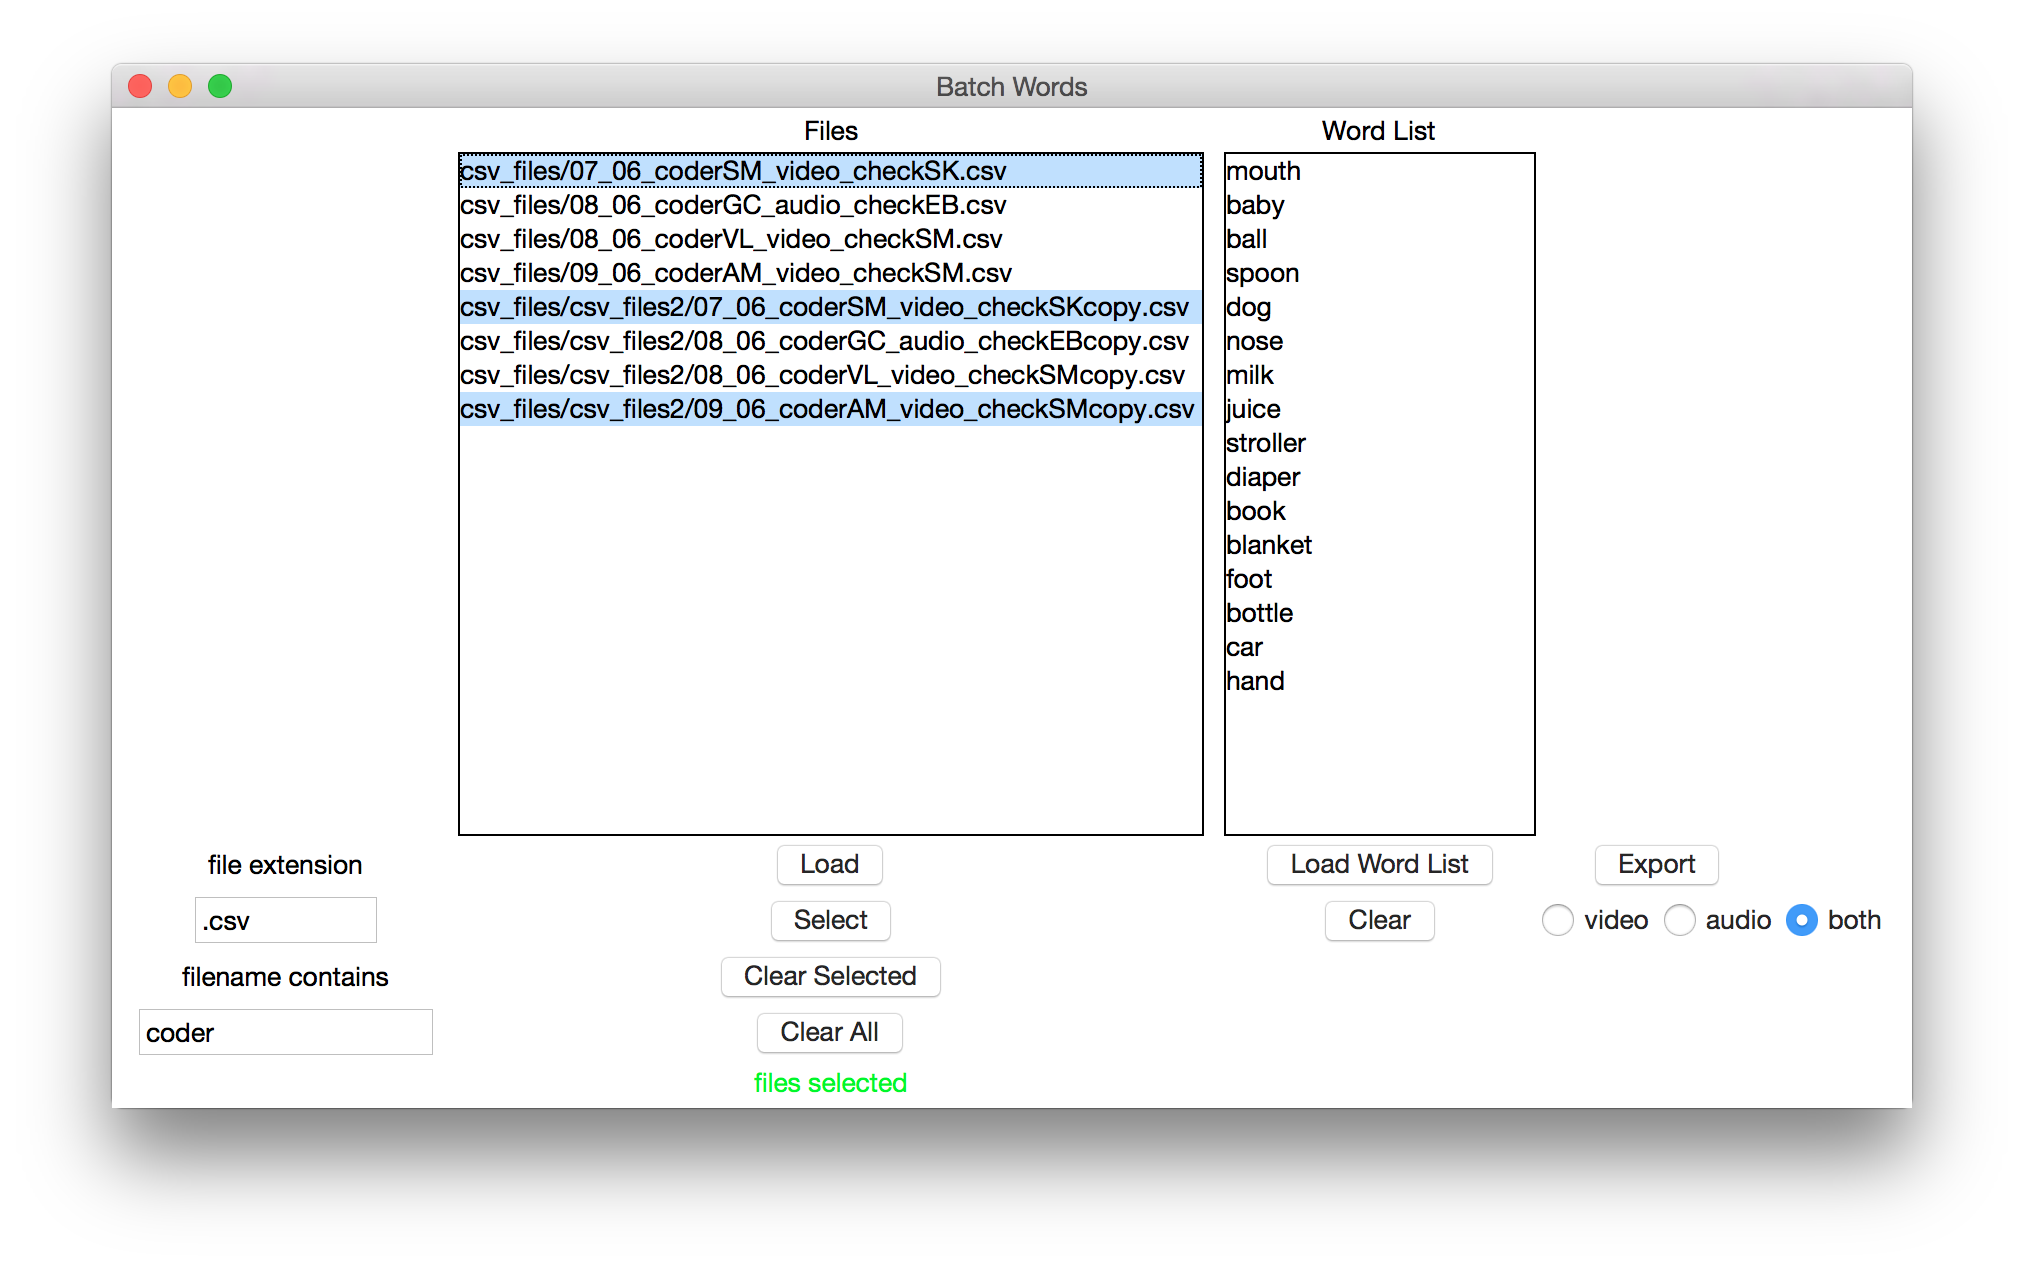
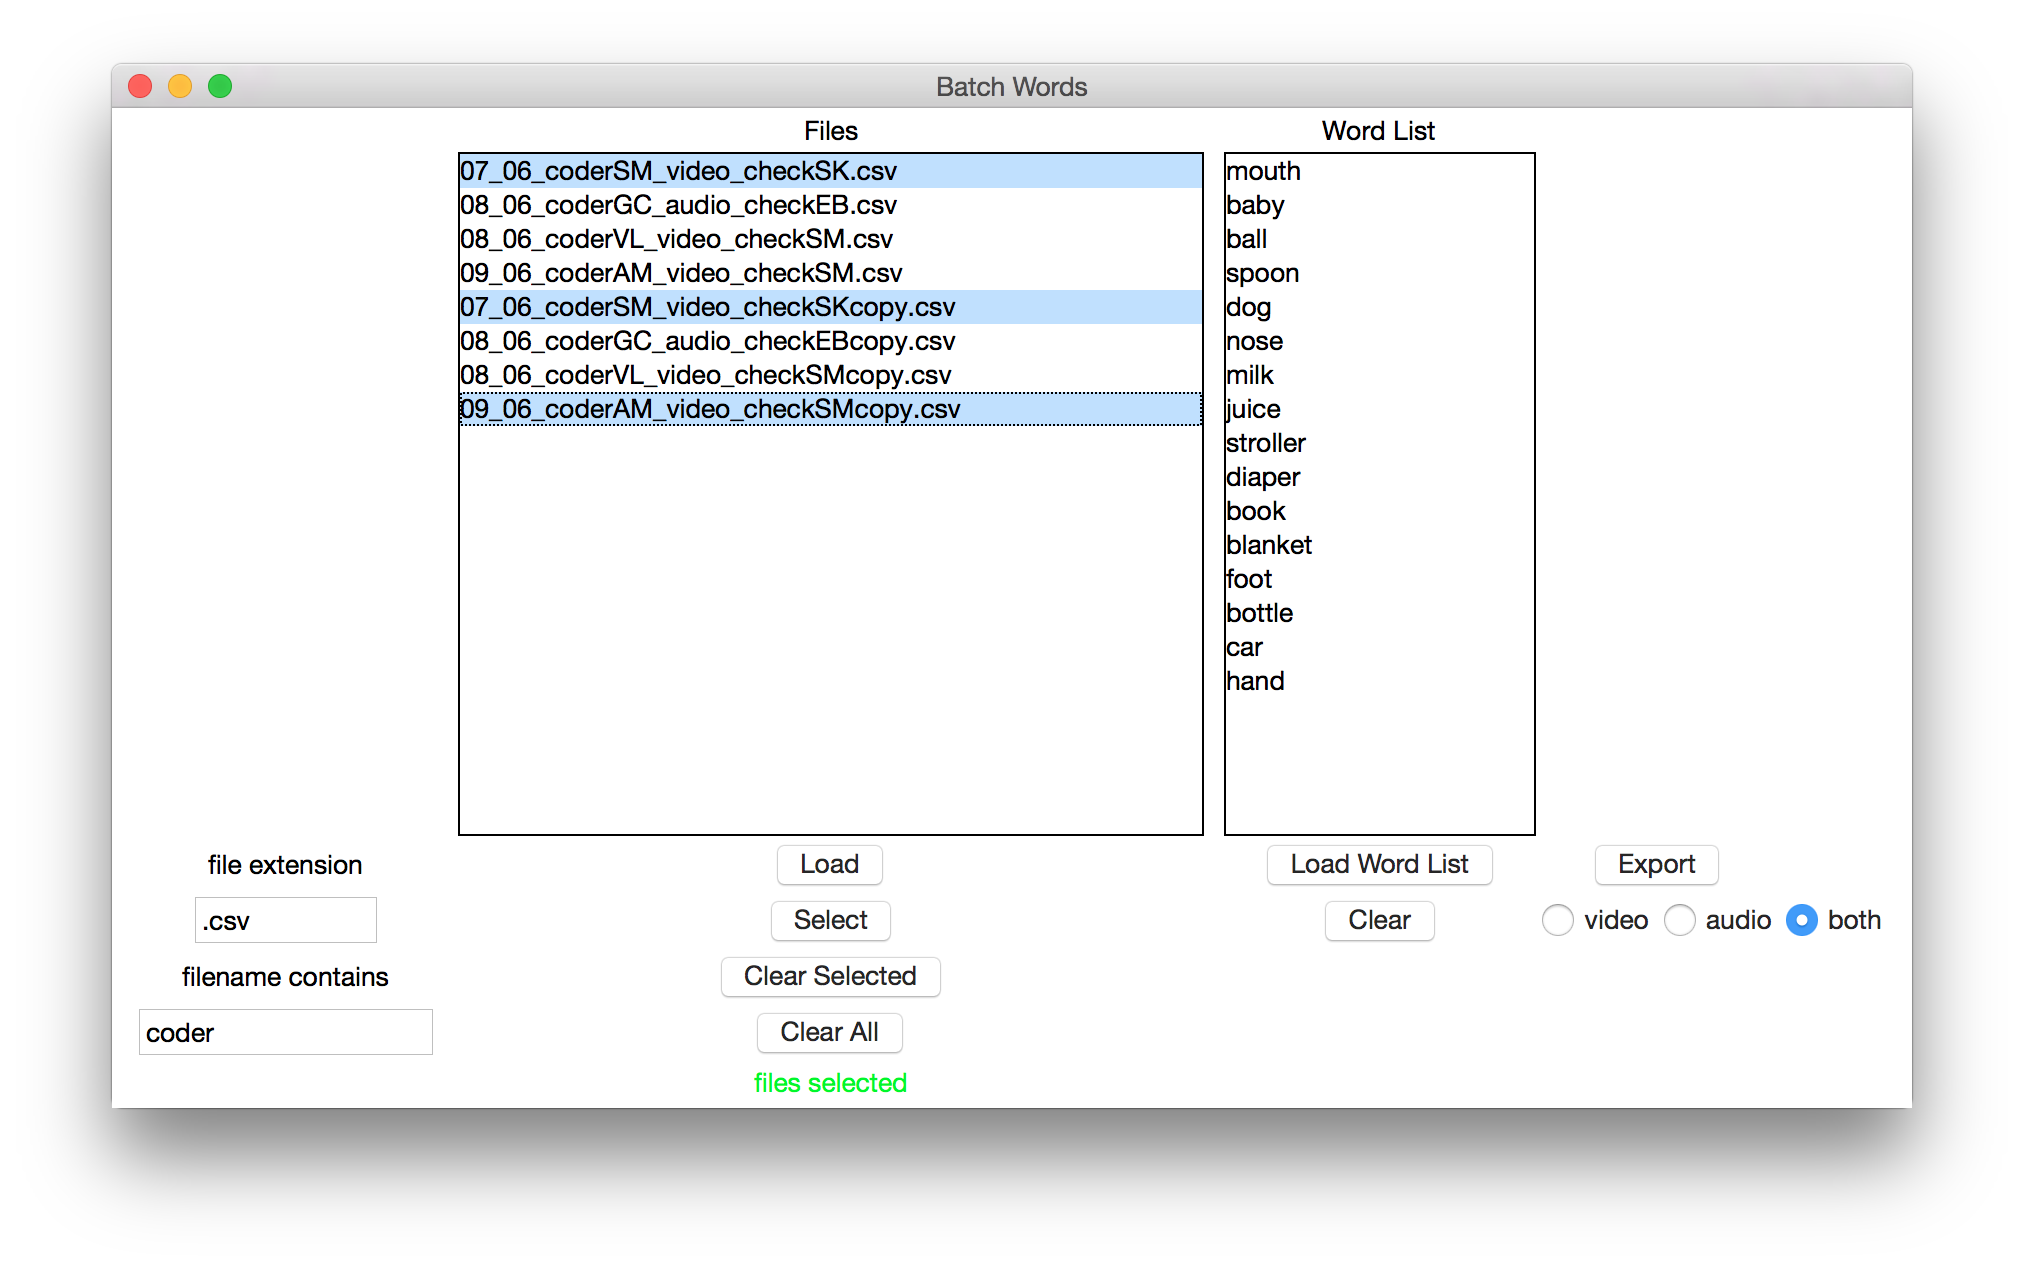
Remove relative paths from the GUI box

Changed region(s): [[0.2179, 0.123, 0.5914, 0.3383]]

diff --git a/batchwords.py b/batchwords.py
@@ -202,7 +202,8 @@ class MainWindow:
 
 
         for i, file in enumerate(self.all_csv_files):
-            self.file_listbox.insert(i, file)
+            filename = os.path.split(file)[1]
+            self.file_listbox.insert(i, filename)
 
     def directory_clear(self):
 
